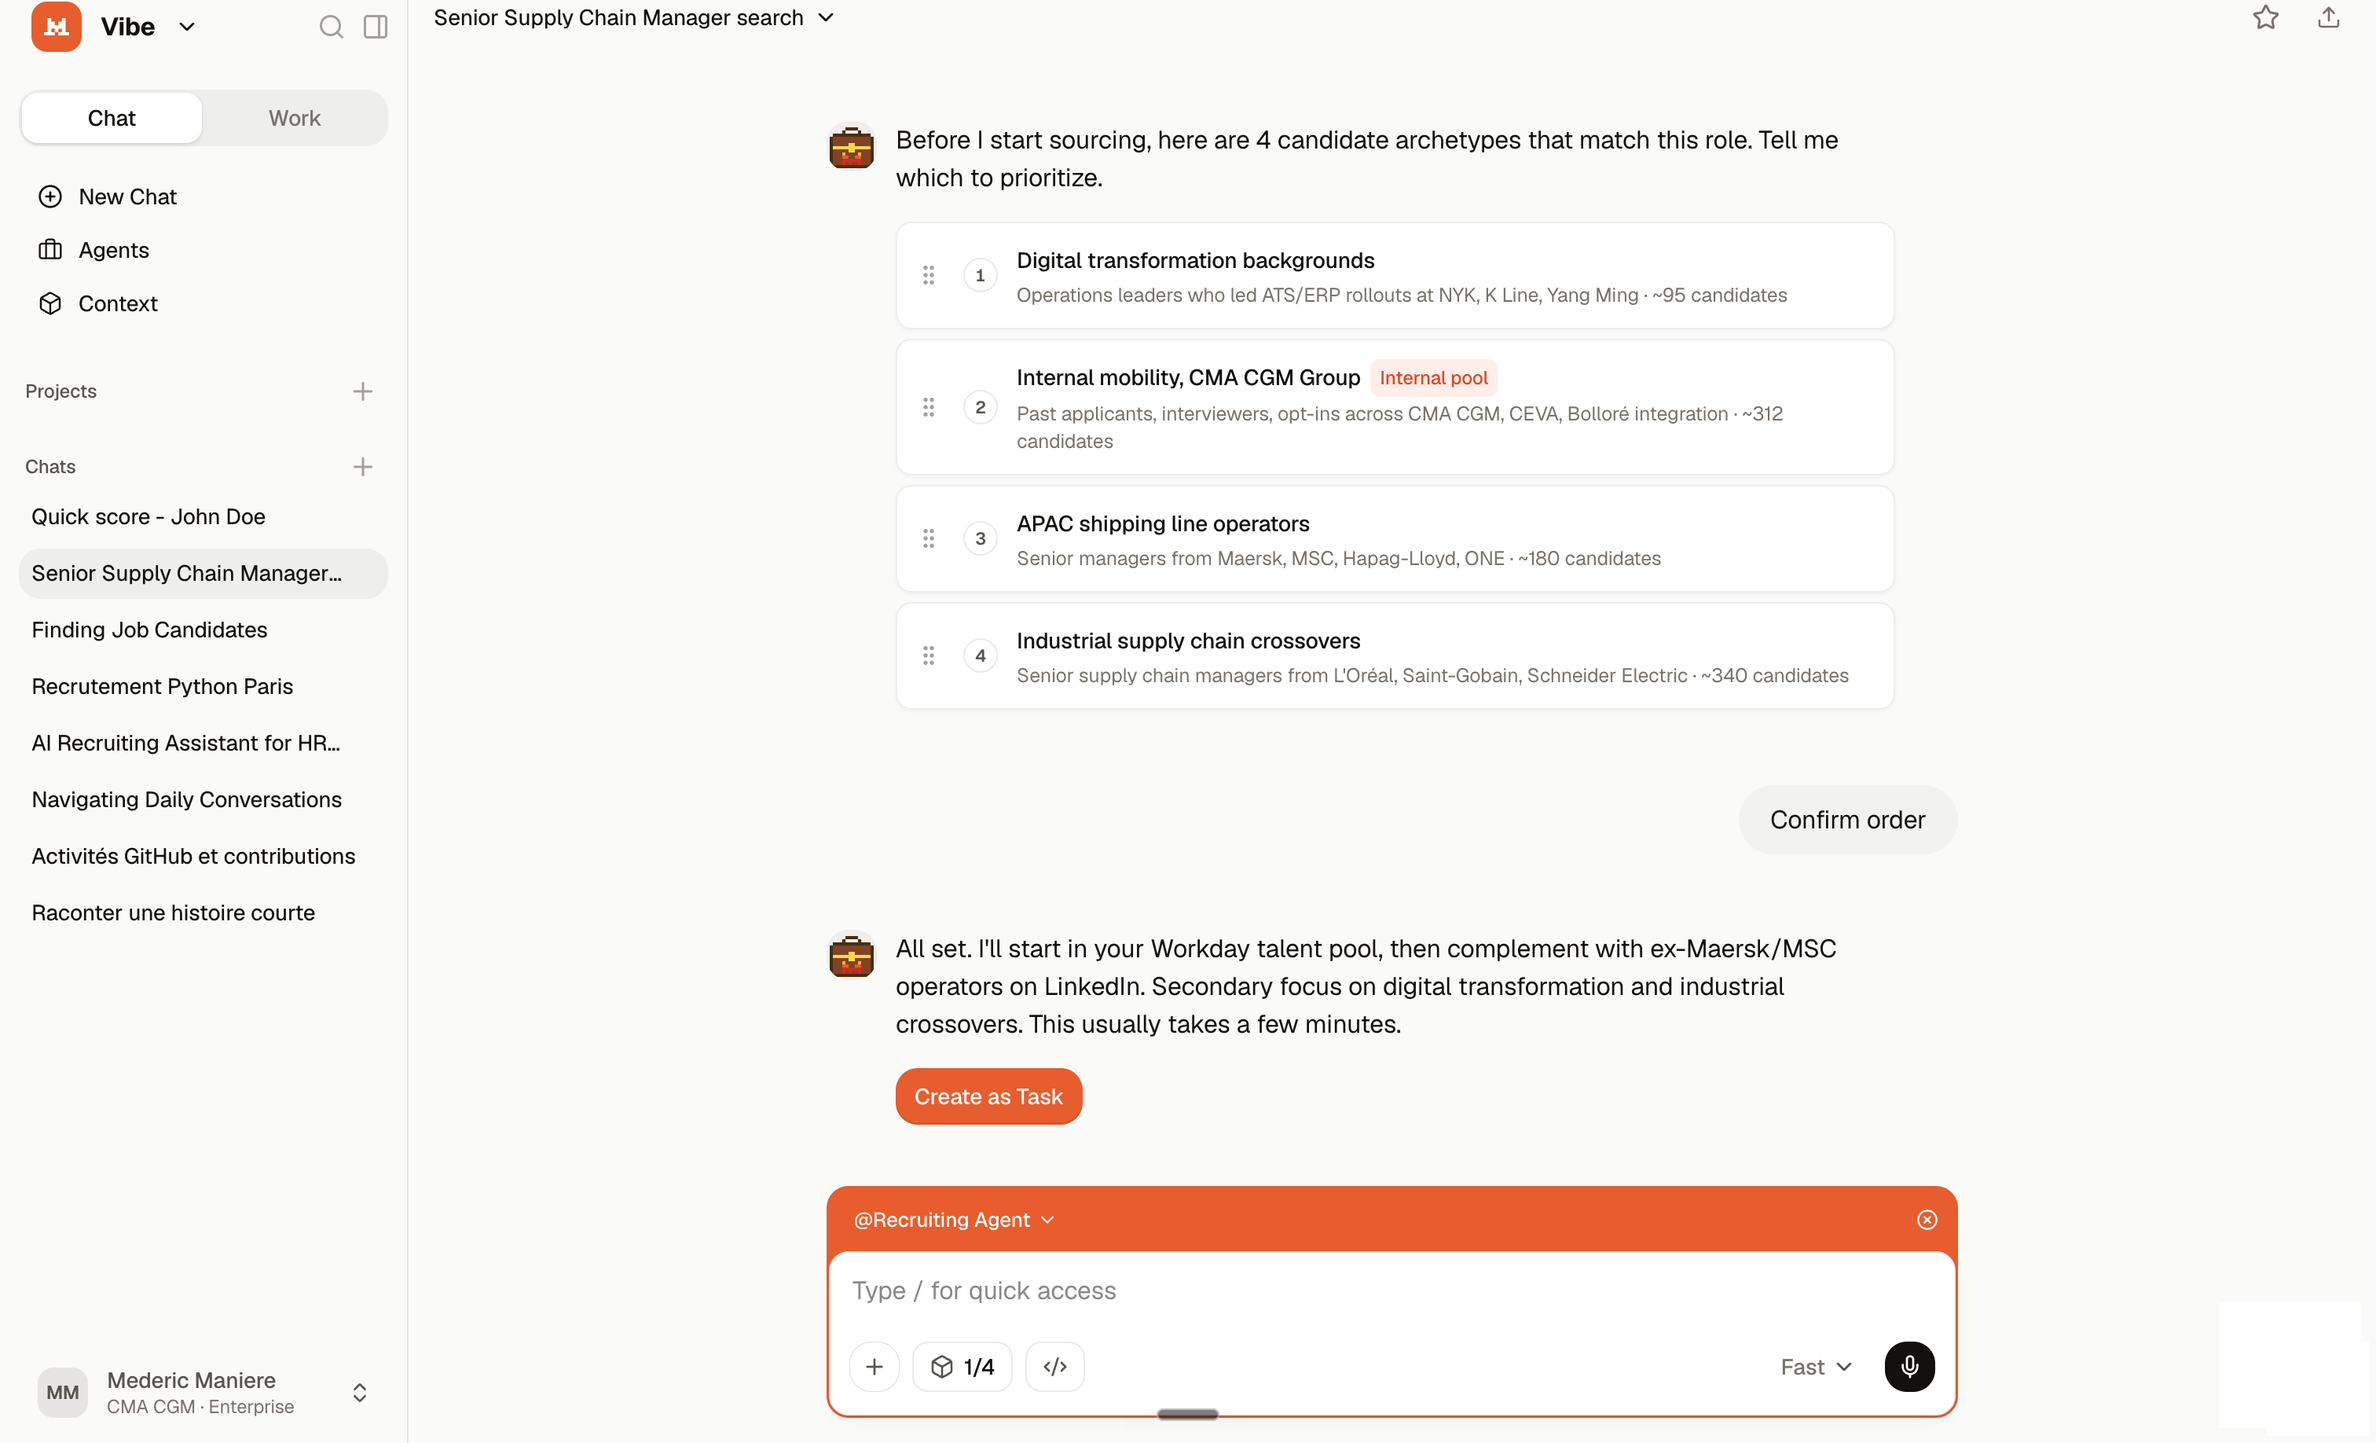
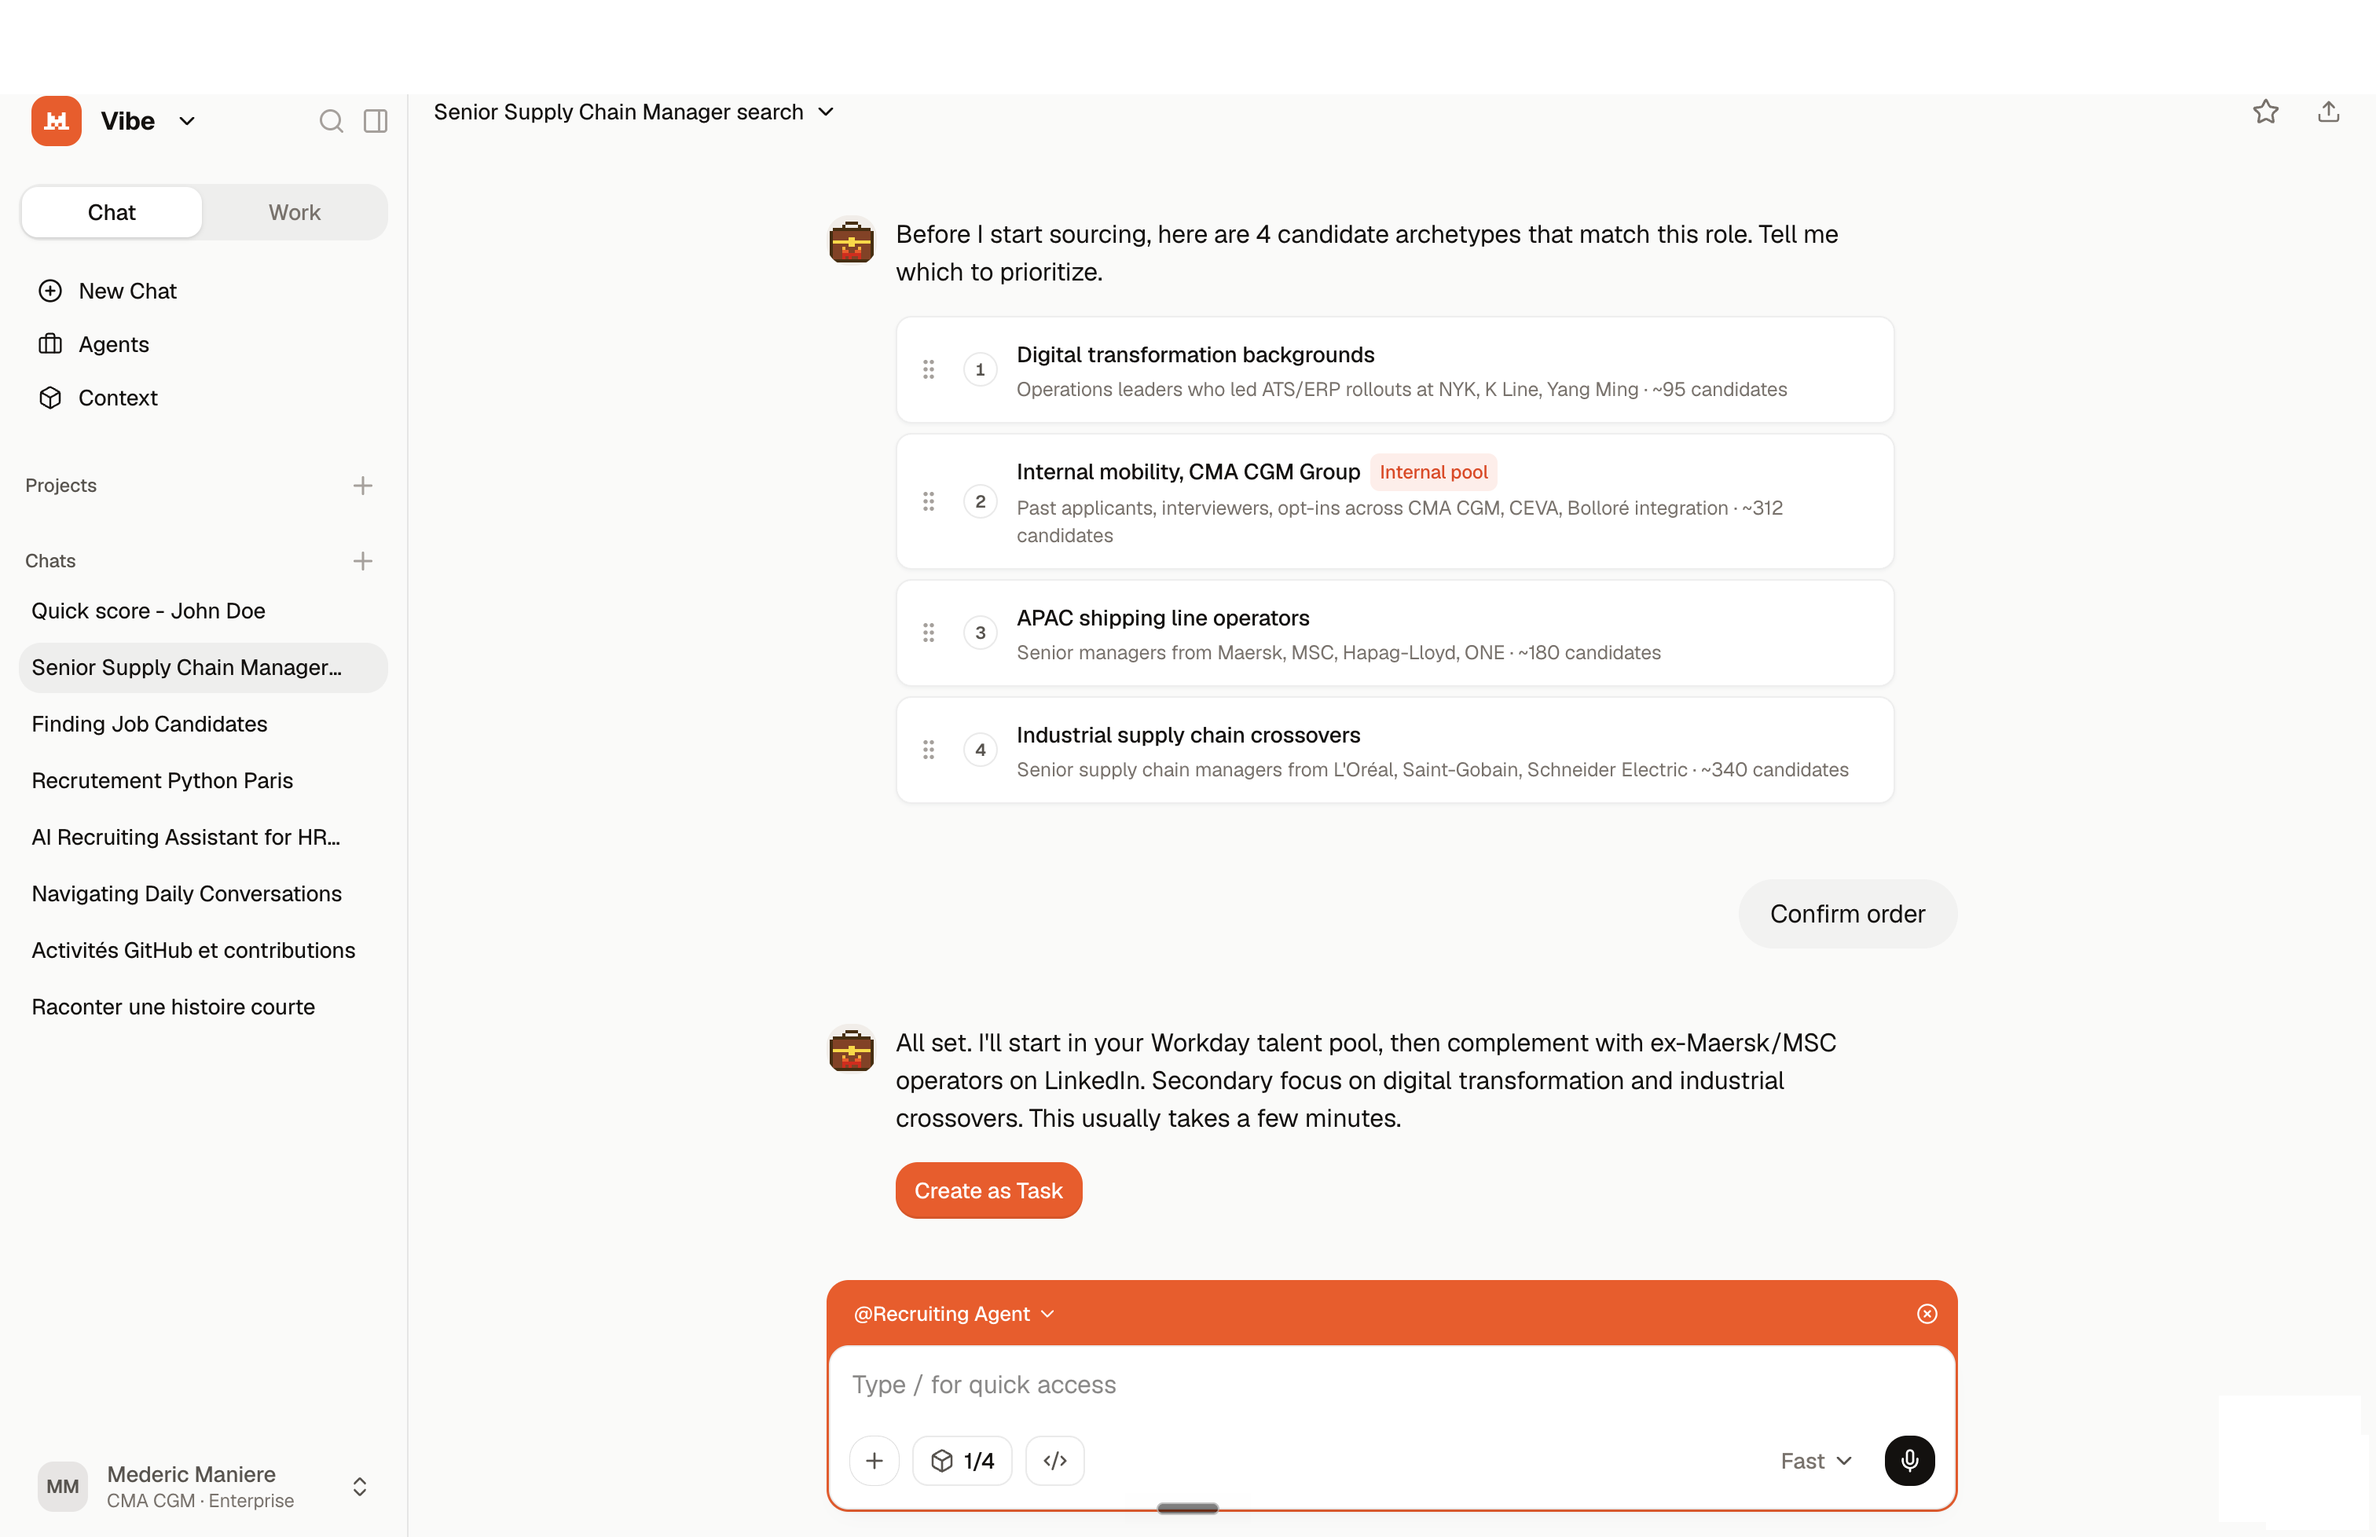
more screens: padding inside the screenshot (120px white on top)
User clarified: the breathing room should live INSIDE each design,
not as a wrapper around it. Drop the slider p-8 and instead pad the
PNG itself with 120px of white at the top so the Vibe app header
no longer butts up against the slide edge.

diff --git a/src/components/case-study/MoreScreensSlider.tsx b/src/components/case-study/MoreScreensSlider.tsx
@@ -59,7 +59,7 @@ export function MoreScreensSlider({ screens }: { screens: Screen[] }) {
             <div
               key={i}
               style={{ width: `${100 / total}%` }}
-              className="shrink-0 p-8"
+              className="shrink-0"
             >
               <button
                 type="button"
@@ -71,7 +71,7 @@ export function MoreScreensSlider({ screens }: { screens: Screen[] }) {
                 <img
                   src={s.src}
                   alt={s.alt}
-                  className="block h-auto w-full rounded-sm"
+                  className="block h-auto w-full"
                   loading={i === 0 ? "eager" : "lazy"}
                   decoding="async"
                 />
